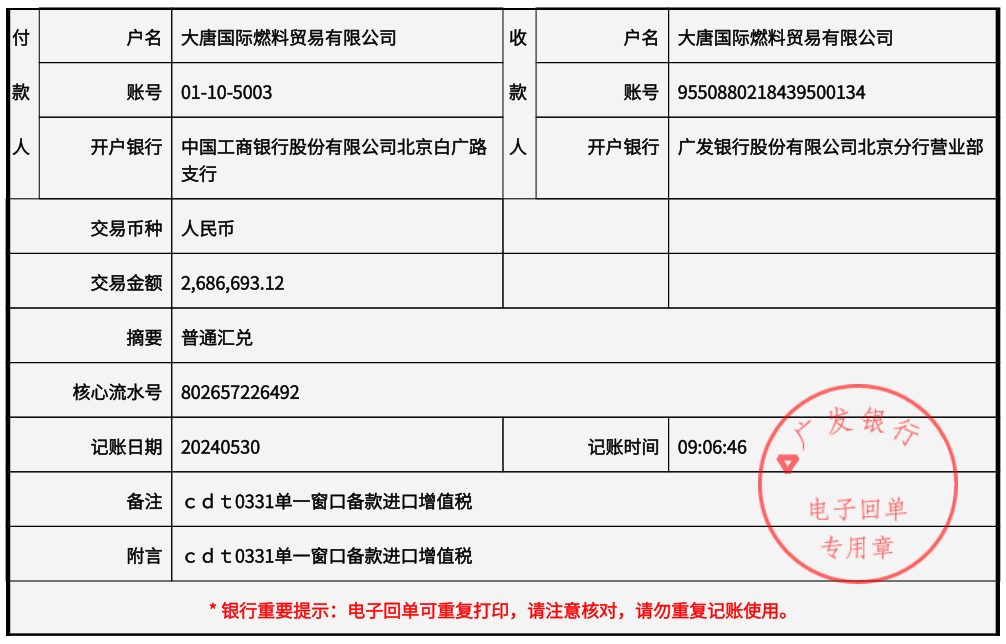
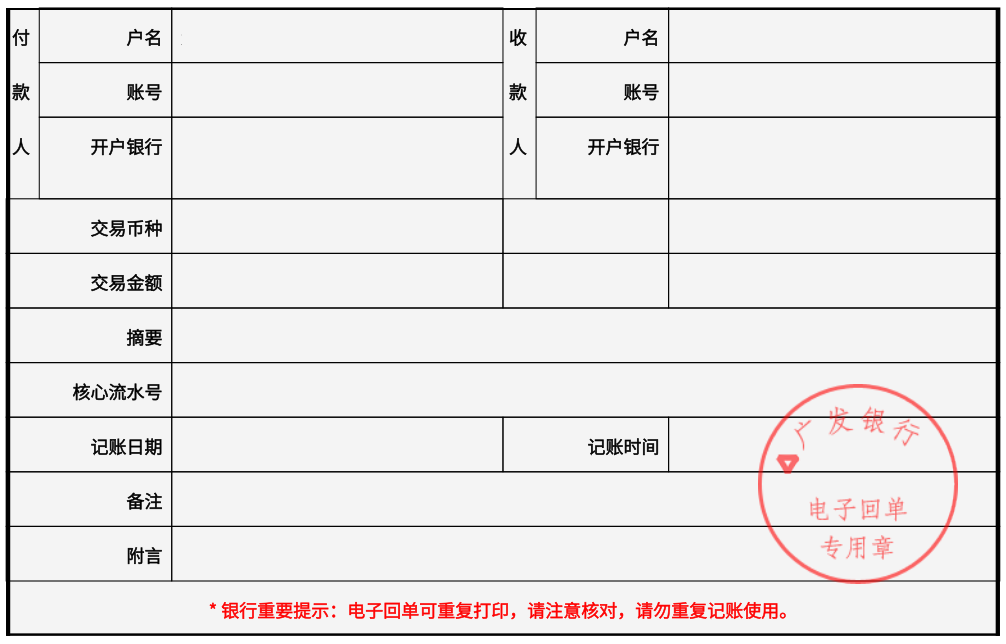
添加回单模板图片

diff --git a/personal_tool/file_tool/文件解析工具/feature/pdf_parser/parse_receipt/parser/银行承兑汇票/acceptance_receipt.py b/personal_tool/file_tool/文件解析工具/feature/pdf_parser/parse_receipt/parser/银行承兑汇票/acceptance_receipt.py
@@ -15,7 +15,7 @@ class AcceptanceReceiptParser(ReceiptParser):
 
     def judge(self) -> bool:
         """判断是否为当前格式"""
-        return self._check_contains("渤海银行电子印图案", "电子银行承兑汇票")
+        return self._check_contains("电子银行承兑汇票")
 
     def parse(self):
         """解析"""
@@ -60,11 +60,13 @@ class AcceptanceReceiptParser(ReceiptParser):
         # 根据承兑人开户银行名称判断票据所属银行，再根据所属银行取出金额
         amount_cell = table.get_cell_relative("^票据金额", 0)
         if re.search("渤海银行", acceptance.acceptor_account_bank_name):
-            acceptance.acceptor_bank = "渤海银行"  # 承兑所属银行
+            acceptance.bank = "渤海银行"  # 承兑所属银行
             amount = "".join([each.get_value() for each in table.get_row_cells(amount_cell.row + 1)])
             acceptance.amount = NumberUtil.to_amount(amount)  # 金额
         elif re.search("农业银行", acceptance.acceptor_account_bank_name):
-            acceptance.acceptor_bank = "农业银行"  # 承兑所属银行
+            acceptance.bank = "农业银行"  # 承兑所属银行
             acceptance.amount = NumberUtil.to_amount(table.get_row_cells(amount_cell.row)[-1].get_value())  # 金额
-        acceptance.image = profile.image
+        acceptance.type = f"{acceptance.bank}{self.parser_type}"  # 类型
+        acceptance.abstract = ""  # 摘要
+        acceptance.image = profile.image  # 图片
         self.receipts.append(acceptance)

diff --git a/test/personal_tool/file_tool/文件解析工具/feature/pdf_parser/parse_pdf_test.py b/test/personal_tool/file_tool/文件解析工具/feature/pdf_parser/parse_pdf_test.py
@@ -1,8 +1,10 @@
+import os
 import re
 import typing
 from pathlib import Path
 
 from common_core.base.test_base import TestBase
+from common_util.file_util.image_util.image_util import ImageUtil
 from personal_tool.file_tool.文件解析工具.feature.pdf_parser.parse_pdf import ParsePdf
 
 
@@ -31,6 +33,9 @@ class ParsePdfTestCase(TestBase):
             parser = ParsePdf.parse_receipt(receipt_path)
             for receipt in parser.receipts:
                 print(receipt.to_dict(False))
+                # image_path = f"E:\\{receipt}.png"
+                # if not os.path.exists(image_path):
+                #     ImageUtil.save_opencv_image(receipt.image, image_path)
 
     def test_parse_voucher(self):
         for voucher_path in self.__get_pdf_path(self.voucher_path.joinpath(r"")):

diff --git a/personal_tool/file_tool/文件解析工具/feature/pdf_parser/parse_receipt/parser/银行承兑汇票/entity/acceptance.py b/personal_tool/file_tool/文件解析工具/feature/pdf_parser/parse_receipt/parser/银行承兑汇票/entity/acceptance.py
@@ -4,7 +4,6 @@ from ....entity.receipt import Receipt
 class Acceptance(Receipt):
 
     def __init__(self):
-        self.acceptor_bank = None  # 承兑所属银行
         super().__init__()
         self.due_date = None  # 汇票到期日
         self.acceptor_account_name = None  # 承兑人全称
